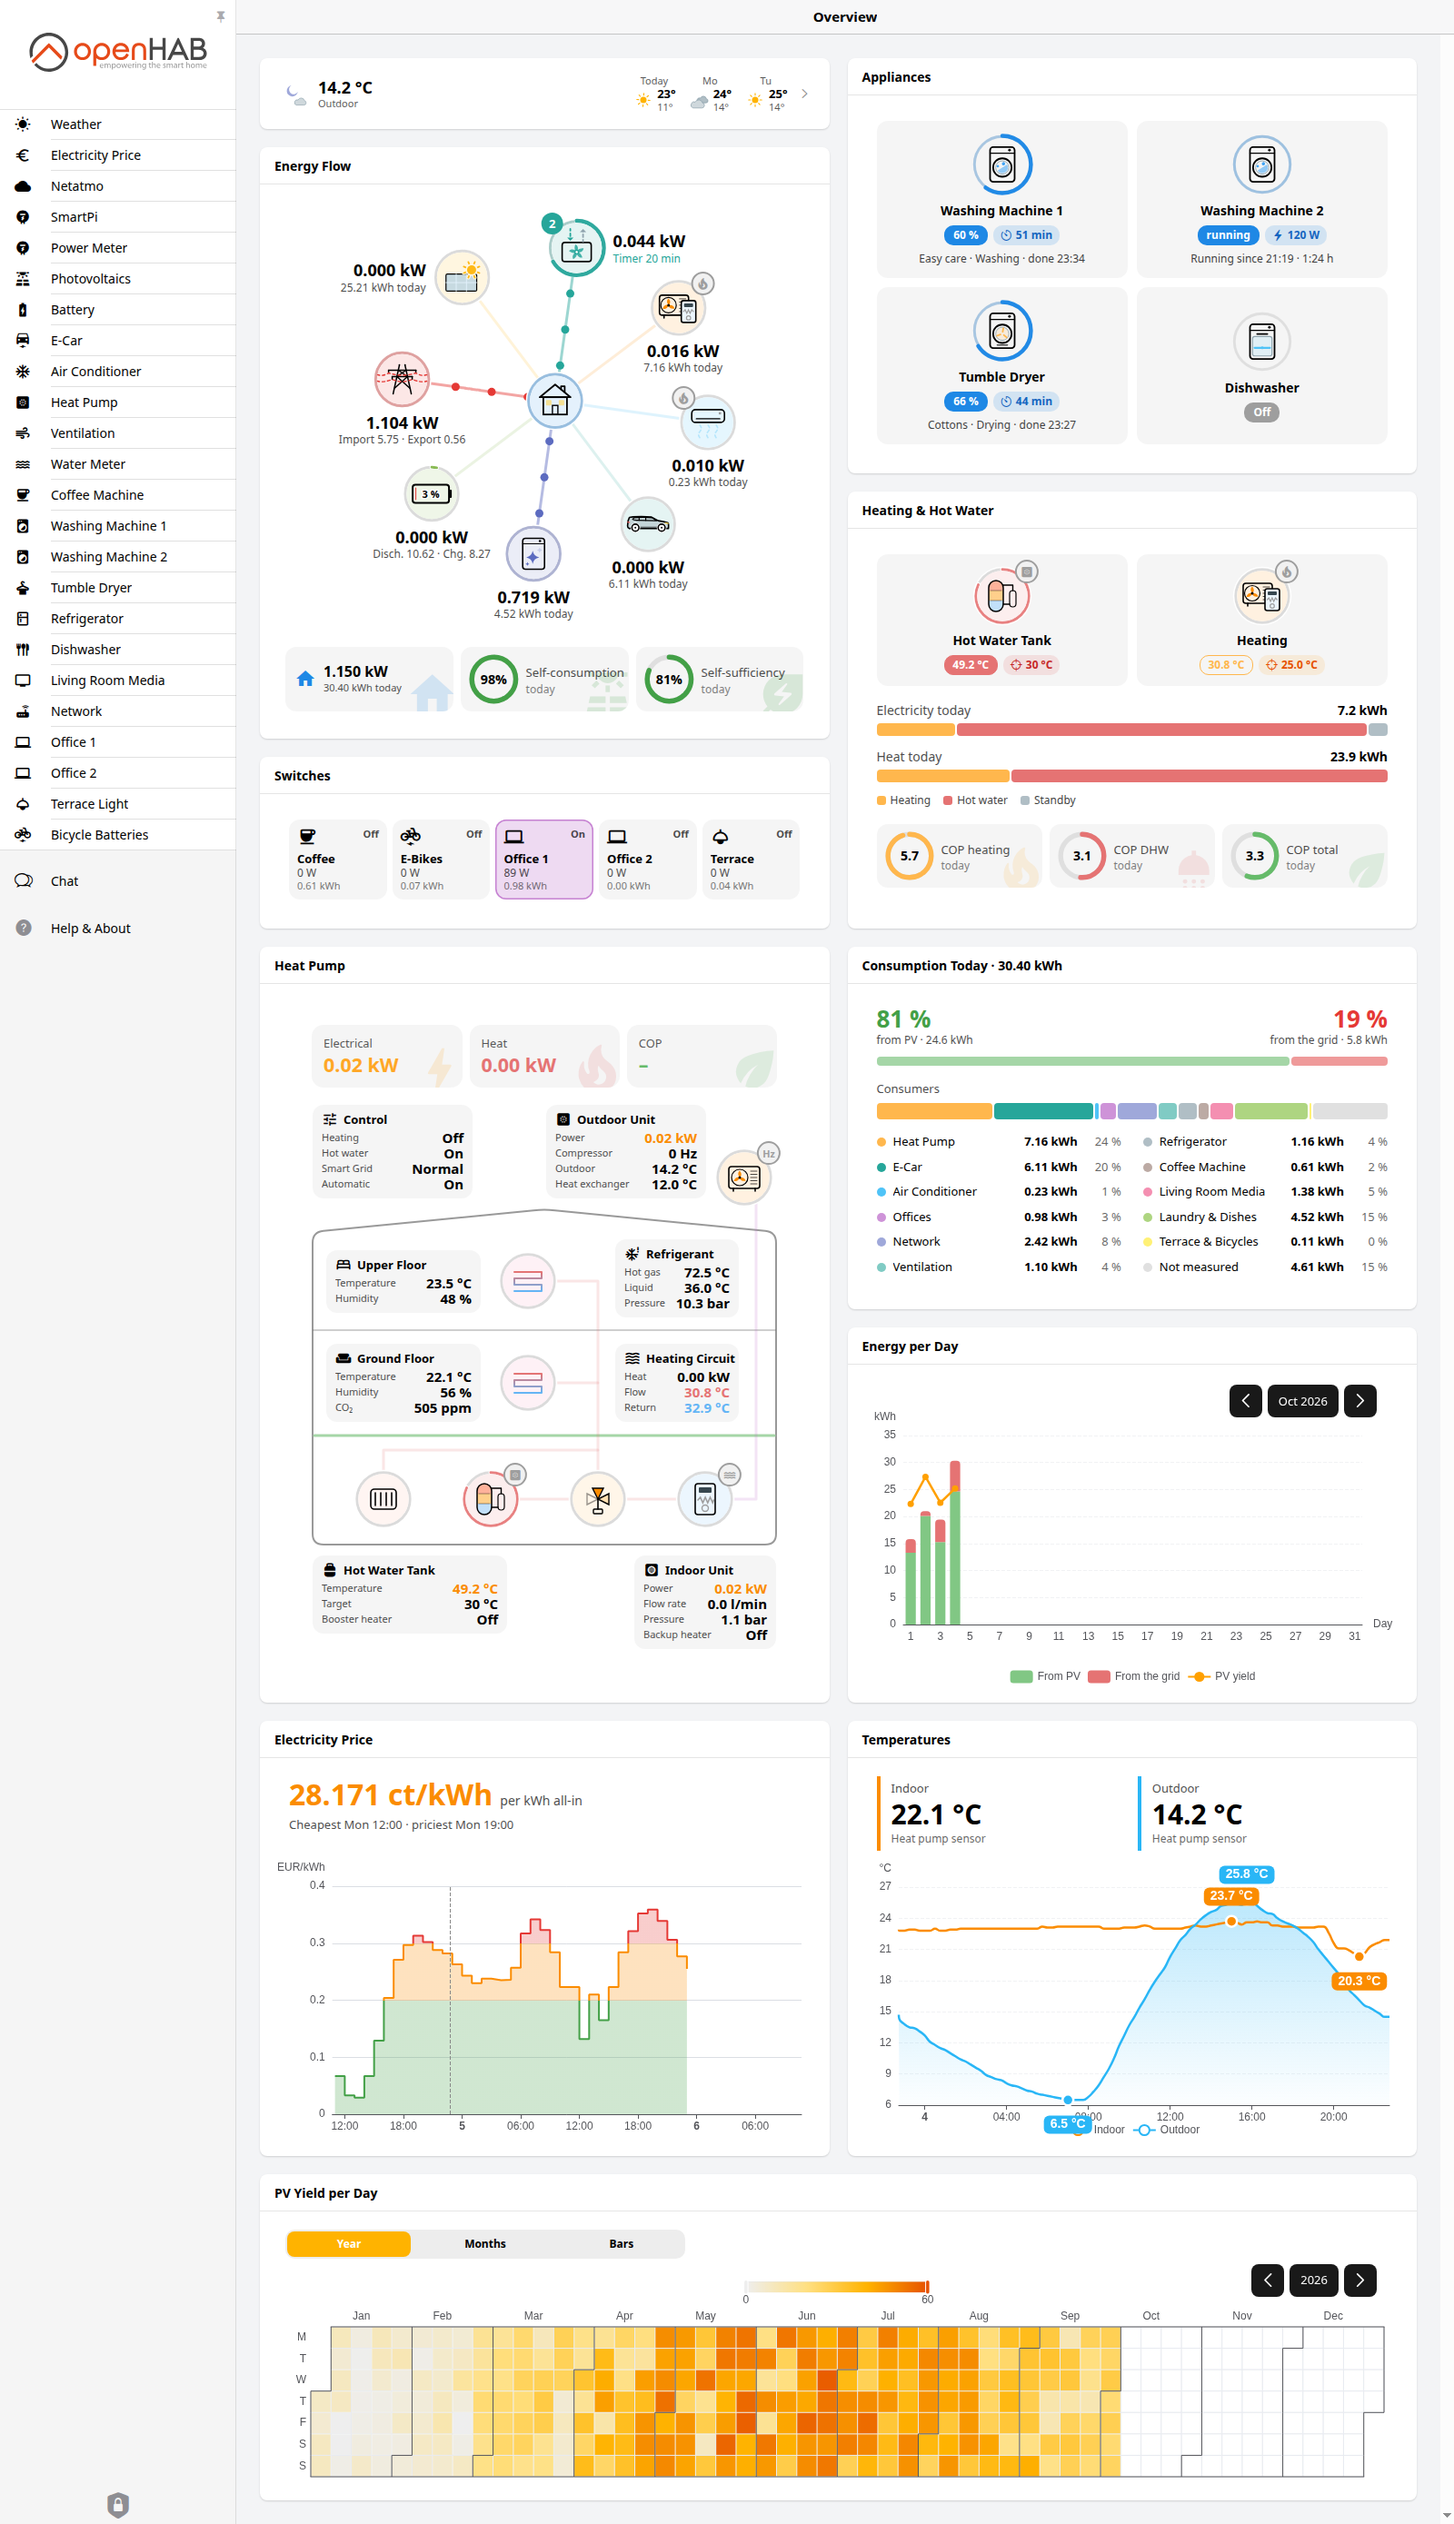
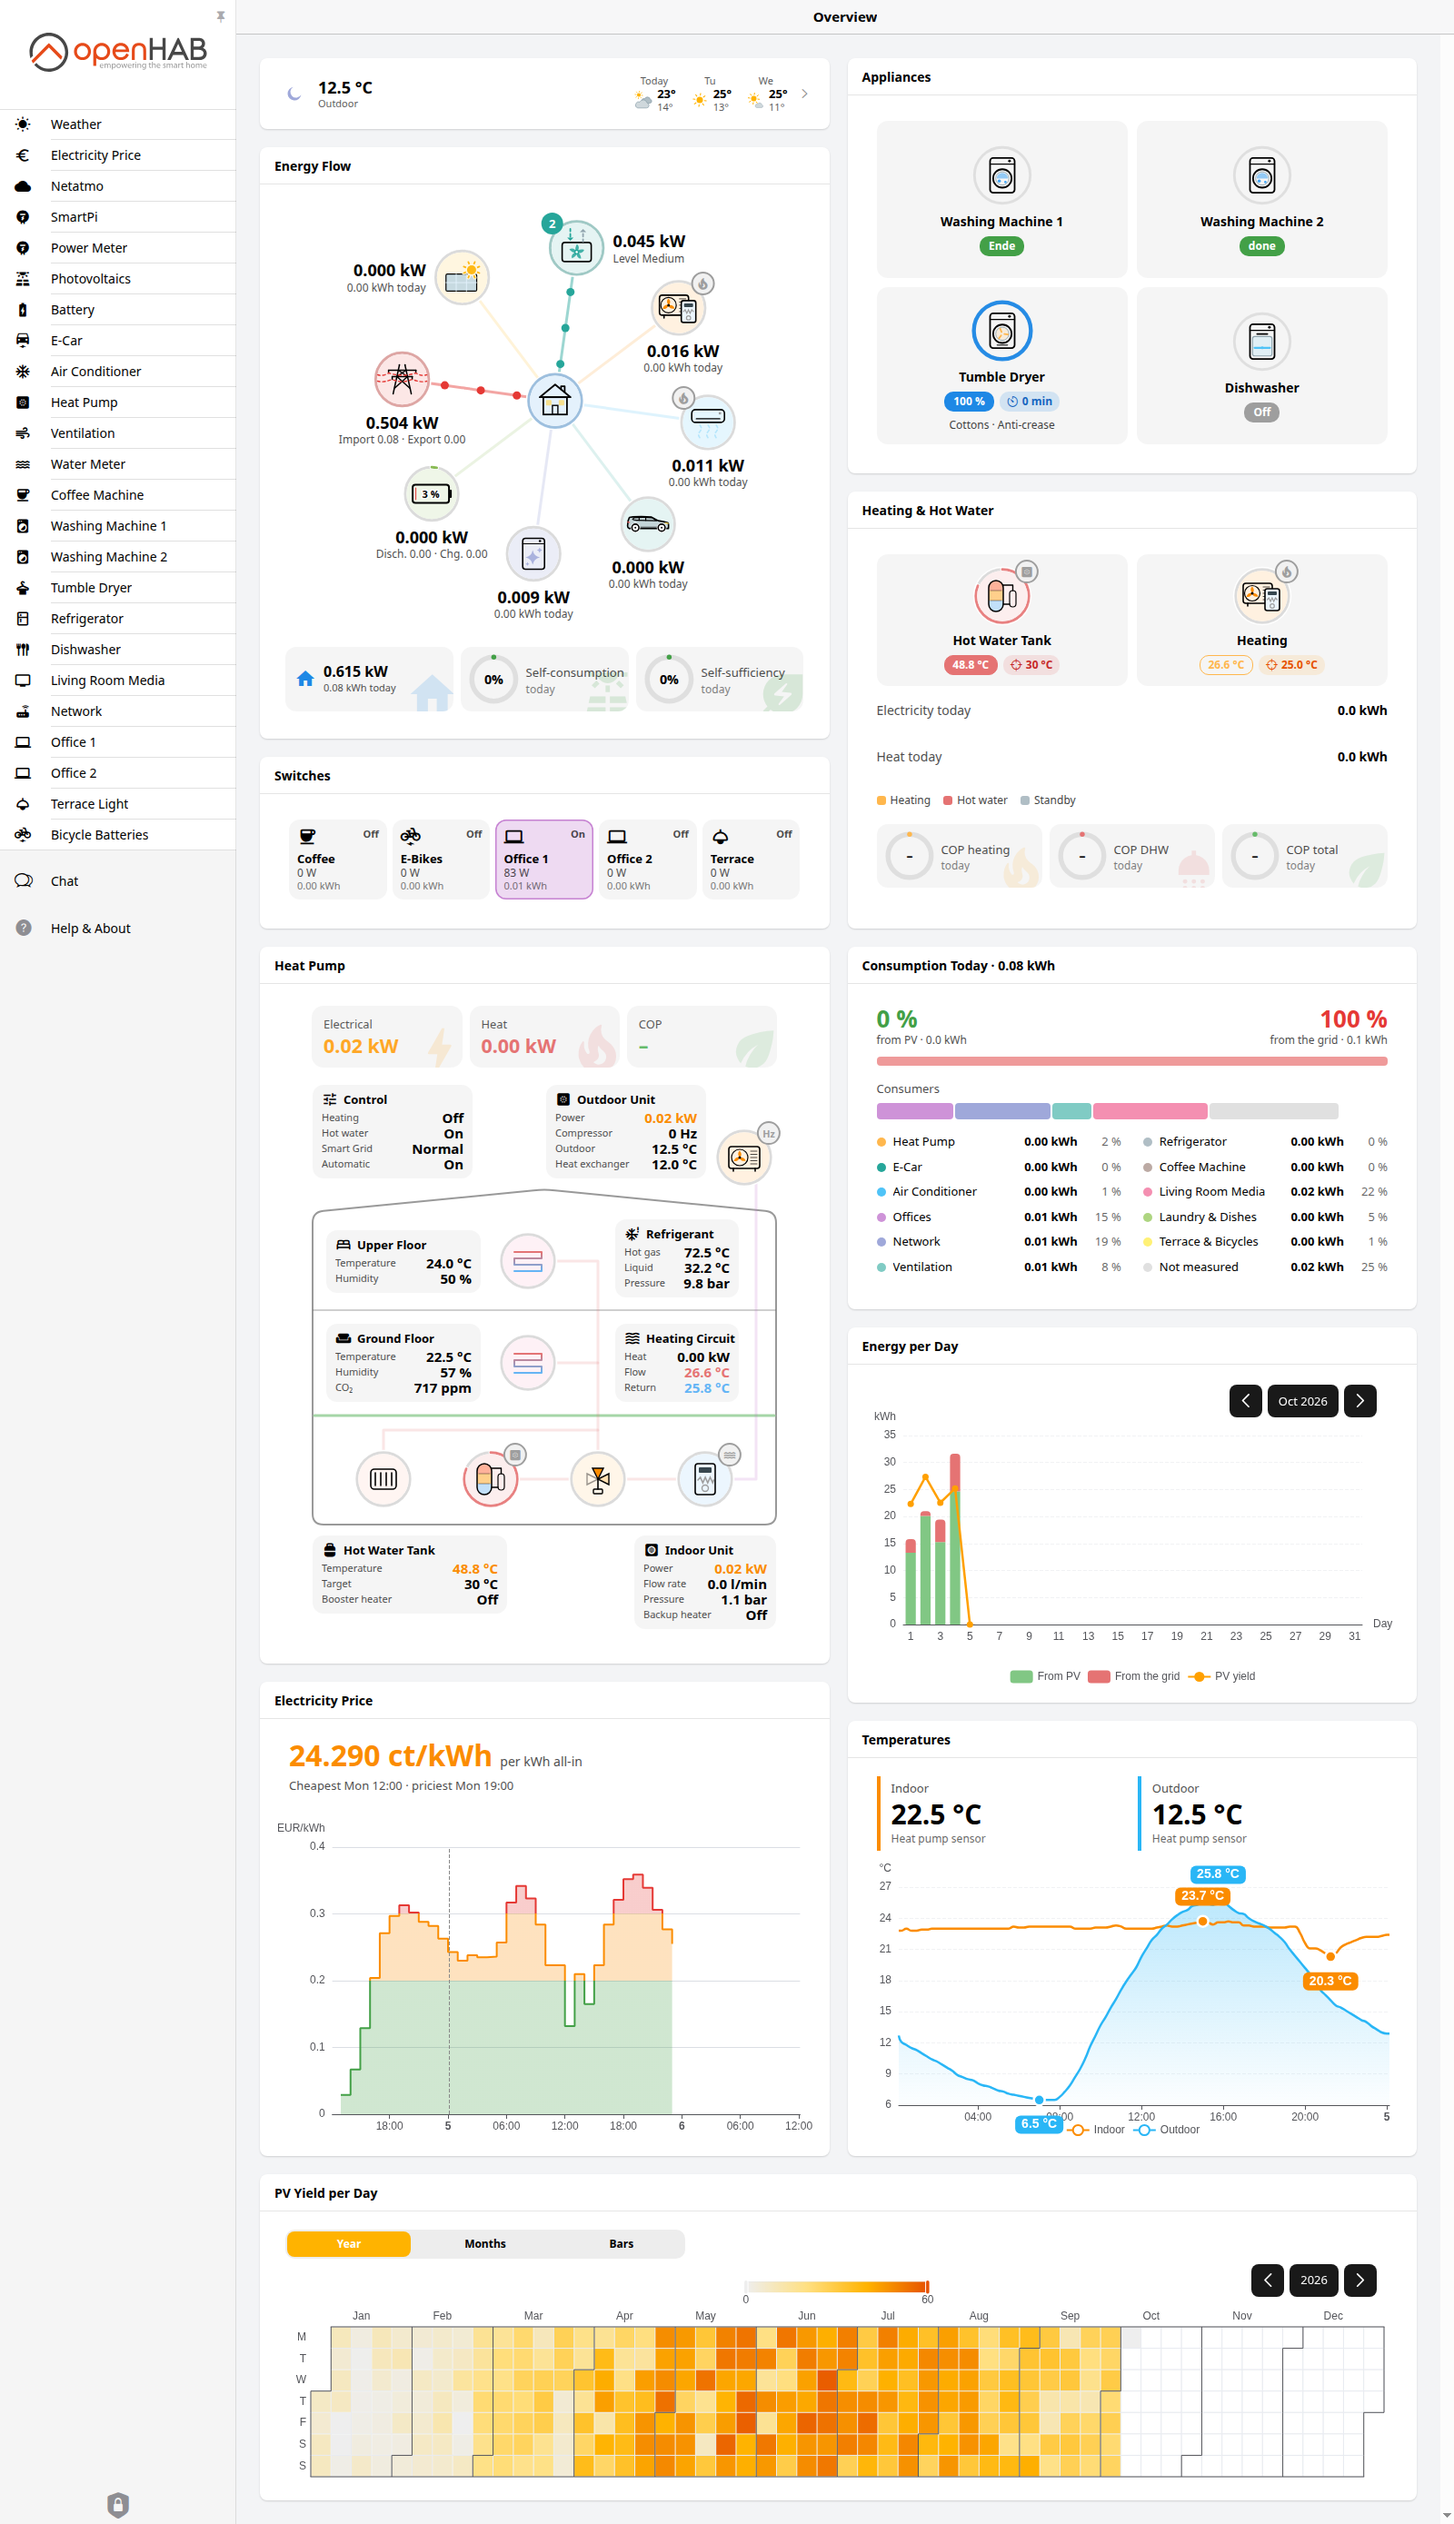
overview: two stacked columns instead of coupled rows
- the heat pump over the price beside consumption, energy per day and temperatures,
  each column with a chart that grows into what it lacks
- below about 1500 px the consumers list goes single-column and a shared row stretched
  the heat pump card with up to 250 px of empty space
- overview screenshots retaken

diff --git a/scripts/openhab-ui/dashboard.py b/scripts/openhab-ui/dashboard.py
@@ -5404,13 +5404,15 @@ def page(now):
     w = lambda uid: widget_ref(uid, **props[uid])  # every item a widget reads comes in as a prop
     return layout_page(PAGE_UID, {"label": "Overview", "stylesheet": SCROLLBAR}, [
         # the weather bar over the energy flow over the switches beside the appliances over heating and hot water (on
-        # a phone the weather stays on top), the flow taking the height the row leaves; the heat pump beside today's
-        # consumption over the energy per day, which fills the column down to the heat pump's height; the price beside
-        # the temperatures; the PV calendar across the bottom
+        # a phone the weather stays on top), the flow taking the height the row leaves; then two columns of their own,
+        # the heat pump over the price beside today's consumption over the energy per day over the temperatures, each
+        # with a chart that takes what its column lacks (the price's, the energy per day's): today's consumption lists
+        # its consumers in one column below about 1500 px and then stands taller than the heat pump, which a shared
+        # row stretched with up to 255 px of empty card (user, 2026-10-05); the PV calendar across the bottom
         block(row(col([widget_stack(w("weather-card"), w("energy-flow-card"), w("switches-card"), grow=2)]),
                   col([widget_stack(w("appliances-card"), w("heating-card"))])),
-              row(col([w("heatpump-card")]), col([widget_stack(w("consumption-card"), w("energy-days-card"))])),
-              row(col([w("electricity-price-card")]), col([w("temperatures-card")])),
+              row(col([widget_stack(w("heatpump-card"), w("electricity-price-card"), grow=2)]),
+                  col([widget_stack(w("consumption-card"), w("energy-days-card"), w("temperatures-card"), grow=2)])),
               row(full(w("pv-days-card")))),
     ], now)
 
